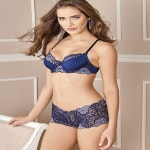
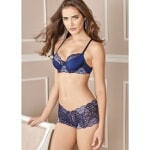
novas imagens

diff --git a/htm/LojaSite.css b/htm/LojaSite.css
@@ -270,7 +270,7 @@ a #HeaderCartTotalFC{color:#ff3355;<tag-FCCSSColor18>;position:relative;top:3px;
 .DivHomeProd{cursor:pointer !important;width:100%;margin-top:10px;margin-bottom:10px;padding:1em;display:inline-block;box-sizing:border-box;border-top-style:solid;border-top-width:1px;border-left-style:solid;border-left-width:1px;border-right-style:solid;border-right-width:2px;border-bottom-style:solid;border-bottom-width:3px;border:1px solid <tag-FCCSSColor8>;border-top-color:<tag-FCCSSColor8>;border-left-color:<tag-FCCSSColor8>;border-right-color:<tag-FCCSSColor8>;border-bottom-color:<tag-FCCSSColor8>;}
 .DivHomeProd:hover{border-radius:5px;box-shadow:0 0 5px 0 <tag-FCCSSColor10>, 0 3px 0 <tag-FCCSSSecondMainColor>;}
 .DivHomeImagemProd{float:left;padding:0.2em 1em 0.6em 1em;box-sizing: border-box;min-height:120px;}
-.DivHomeImagemProd .EstImgFC{width: 250px; border:1px solid <tag-FCCSSColor17>;}
+.DivHomeImagemProd .EstImgFC{width: 250px;}
 .DivHomeNomeProd{max-width:222px;width:100%;font-size:0.9em;height:40px;box-sizing:border-box;font-family:'Open Sans',verdana,arial;font-weight:400;color:<tag-FCCSSMainColor>; }
 .DivIntHomeProd{float:left;width:50%;}
 .DivHomePriceProd{text-align:left;}
